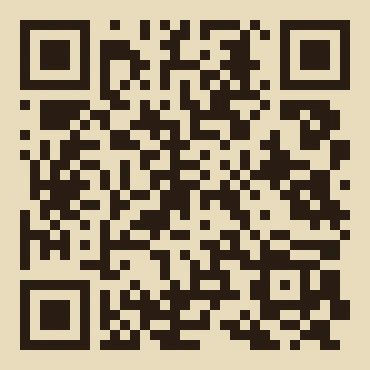
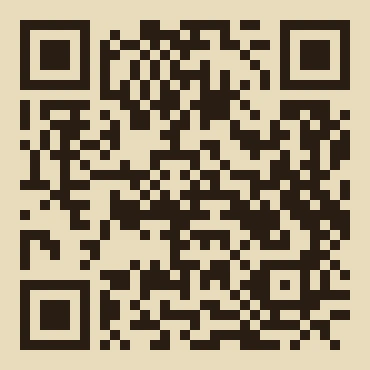
Nowy Świat: student notes page, QR to the site, video only on its own play
- Add nowy-swiat/dziennik/: mobile summary and sources, linked from the deck
- QR on the closing slide now points to lszoszk.github.io/talks/nowy-swiat/dziennik/
- Video starts only from its own play button (no autostart on first tap,
  which on iPhone played it in the background with sound)

diff --git a/nowy-swiat/dziennik/index.html b/nowy-swiat/dziennik/index.html
@@ -1,0 +1,296 @@
+<!doctype html>
+<html lang="pl">
+<head>
+<meta charset="utf-8">
+<meta name="viewport" content="width=device-width,initial-scale=1">
+<meta name="description" content="Podsumowanie i źródła wykładu „Nowy Świat” (WPiA UAM, 2 października 2026).">
+<title>Dziennik podróżnika</title>
+<link rel="preconnect" href="https://fonts.googleapis.com">
+<link rel="preconnect" href="https://fonts.gstatic.com" crossorigin>
+<link href="https://fonts.googleapis.com/css2?family=IBM+Plex+Mono:ital,wght@0,400;0,500;0,600;0,700;1,400&family=Press+Start+2P&display=swap" rel="stylesheet">
+<style>
+/* Jednolita ciemna identyfikacja, celowo: strona-towarzysz wykładu "Nowy Świat", ta sama paleta i pixelowy krój co w decku na ścianę. */
+:root{
+  color-scheme:dark;
+  --ink:#1b1622;--paper:#efe6d2;--parch:#ded0b2;--line:#4d4059;
+  --accent:#d67653;--gold:#e0b950;--muted:#ada290;--dim:#b4a6c4;
+  --bg:#141019;--panel:#1e1826;--chrome:#241d2e;
+  --mono:'IBM Plex Mono',ui-monospace,Menlo,Consolas,monospace;
+  --pixel:'Press Start 2P',var(--mono);
+}
+*{box-sizing:border-box}
+html{scroll-behavior:smooth}
+body{margin:0;padding-block:32px 64px;background:var(--bg);color:var(--parch);font-family:var(--mono);font-size:16px;line-height:1.6}
+.wrap{max-width:680px;margin:0 auto;padding-inline:20px}
+img{max-width:100%;display:block}
+a{color:var(--gold)}
+h1,h2{color:var(--paper);text-wrap:balance}
+.gld{color:var(--gold)}
+b,strong{color:var(--paper);font-weight:600}
+section{scroll-margin-top:16px;padding-block:38px;border-top:1px solid var(--line)}
+section:first-of-type{border-top:0}
+.kicker{font-family:var(--pixel);font-size:.62rem;line-height:1.9;letter-spacing:.04em;color:var(--gold);margin:0 0 14px}
+h2{font-size:1.5rem;line-height:1.3;margin:0 0 16px;letter-spacing:-.01em}
+p{margin:0 0 14px}
+.big{font-size:1.1rem;color:var(--paper)}
+.muted{color:var(--muted);font-size:.85rem}
+.fig-note{color:var(--muted);font-size:.82rem;margin-top:-4px}
+.src-line{color:var(--muted);font-size:.78rem;margin:8px 0 0}
+.quote{border-left:4px solid var(--gold);padding:2px 0 2px 16px;color:var(--paper);font-size:1.02rem;font-style:italic}
+.quote .qsrc{display:block;margin-top:6px;color:var(--muted);font-size:.78rem;font-style:normal}
+.link-btn{display:inline-block;font-family:var(--pixel);font-size:.68rem;letter-spacing:.03em;color:var(--ink);background:var(--gold);border:2px solid var(--ink);box-shadow:4px 4px 0 #00000055;padding:10px 14px;text-decoration:none}
+.link-btn:hover{background:var(--paper)}
+
+/* naglowek */
+.hero{padding-top:6px}
+.hero-sprite{width:44px;height:66px;margin:0 0 18px;background:url(../assets/bohater_wiedzmin_bieg.webp) 0 0/264px 66px no-repeat;animation:walk .55s steps(6) infinite;image-rendering:pixelated}
+@keyframes walk{to{background-position:-264px 0}}
+.hero h1{font-family:var(--pixel);font-size:clamp(1.9rem,9vw,2.6rem);line-height:1.35;letter-spacing:-.01em;text-shadow:3px 3px #000;margin:0 0 12px}
+.hero .subtitle{font-size:1.05rem;color:var(--paper);margin-bottom:6px}
+.hero .byline{color:var(--muted);font-size:.85rem;margin-bottom:22px}
+.hero .intro{font-size:.97rem}
+
+/* spis tresci */
+.toc{display:flex;flex-wrap:wrap;gap:8px;padding:20px 0 6px;list-style:none;margin:0}
+.toc a{display:block;font-size:.78rem;color:var(--parch);background:var(--panel);border:1px solid var(--line);padding:7px 11px;text-decoration:none}
+.toc a:hover,.toc a:focus-visible{border-color:var(--gold);color:var(--gold)}
+
+/* siatka 2 kol. od tabletu */
+.grid-2{display:grid;grid-template-columns:1fr;gap:16px;margin-bottom:16px}
+@media(min-width:560px){.grid-2{grid-template-columns:1fr 1fr}}
+
+/* pary granicy, karty statystyk */
+.pair,.stat-card{background:var(--panel);border:2px solid var(--line);box-shadow:5px 5px 0 #00000055;padding:16px 18px}
+.pair-n{font-family:var(--pixel);font-size:.6rem;letter-spacing:.03em;color:var(--gold);margin:0 0 10px}
+.pair-stat{font-size:1.15rem;color:var(--paper);margin:0 0 8px;font-variant-numeric:tabular-nums}
+.pair-stat span{color:var(--muted);font-size:.72rem;font-weight:400;margin:0 3px}
+.pair p,.stat-card p{font-size:.9rem}
+.stat-card .big{font-size:1.7rem;font-variant-numeric:tabular-nums;margin-bottom:6px}
+.stat-card.wide{max-width:none}
+.lab{font-family:var(--pixel);font-size:.6rem;letter-spacing:.03em;color:var(--gold);margin:0 0 10px}
+
+/* figury / zdjecia */
+figure{margin:0 0 16px}
+figure img{border:2px solid var(--line)}
+figcaption{font-size:.78rem;color:var(--muted);margin-top:8px}
+.task{font-size:.95rem;color:var(--paper);border-left:4px solid var(--line);padding-left:14px}
+
+/* pasek czasu pracy */
+.bars{margin-bottom:18px}
+.bar-row{margin-bottom:12px}
+.bar-row .bl{display:block;font-size:.85rem;color:var(--parch);margin-bottom:5px}
+.bar-track{display:flex;align-items:center;gap:10px}
+.bar-fill-wrap{flex:1;height:18px;background:#00000040}
+.bar-fill{height:100%;background:var(--accent)}
+.bar-row.grow .bar-fill{background:var(--gold)}
+.bar-row .bv{font-variant-numeric:tabular-nums;font-size:.8rem;color:var(--paper);min-width:44px;text-align:right}
+.bars-legend{display:flex;gap:16px;font-size:.75rem;color:var(--muted);margin:-4px 0 16px}
+.bars-legend span{display:inline-flex;align-items:center;gap:6px}
+.bars-legend i{width:10px;height:10px;display:inline-block}
+.bars-legend .gold-sw{background:var(--gold)}
+.bars-legend .acc-sw{background:var(--accent)}
+
+/* oś czasu przygotowania */
+.tl-row{display:flex;align-items:center;gap:10px;margin-bottom:8px}
+.tl-l{font-family:var(--pixel);font-size:.58rem;color:var(--muted);width:52px;flex:none}
+.tl-bar{flex:1;display:flex;height:26px;overflow:hidden;border:1px solid var(--ink)}
+.tl-bar .seg{height:100%}
+.seg.dec{background:var(--accent)}
+.seg.prep{background:var(--line)}
+.seg.eval{background:var(--gold)}
+.tl-legend{display:flex;flex-wrap:wrap;gap:14px;font-size:.75rem;color:var(--muted);margin:10px 0 14px}
+.tl-legend span{display:inline-flex;align-items:center;gap:6px}
+.tl-legend i{width:10px;height:10px;display:inline-block}
+
+/* zrodla */
+.src-list{display:flex;flex-direction:column;gap:16px}
+.src-item{border-top:1px solid var(--line);padding-top:14px}
+.src-item a{font-size:.92rem;color:var(--parch);text-decoration:none}
+.src-item a:hover{color:var(--gold)}
+.src-item p{font-size:.8rem;color:var(--muted);margin:6px 0 0}
+
+.farewell-section p{color:var(--paper)}
+footer{padding-top:30px;color:var(--muted);font-size:.8rem}
+footer p{margin:0 0 4px}
+</style>
+</head>
+<body>
+
+<div class="wrap">
+
+<header class="hero">
+<div class="hero-sprite" aria-hidden="true"></div>
+<p class="kicker">Wykład otwierający</p>
+<h1>Nowy <span class="gld">Świat</span></h1>
+<p class="subtitle">Po co studiować prawo, skoro AI zna przepisy?</p>
+<p class="byline">Łukasz Szoszkiewicz — Wydział Prawa i Administracji UAM</p>
+<p class="intro">Wykład był mapą: sąd, gildia prawników, kuźnia, pracownia alchemika, arena i port. Tu jest to, co po drodze zebraliście — fakty, liczby i źródła, w tej samej kolejności. Wracajcie, kiedy zechcecie.</p>
+<p><a class="link-btn" href="https://lszoszk.github.io/talks/nowy-swiat/" target="_blank" rel="noopener">pełna prezentacja z mapą ↗</a></p>
+<p class="fig-note">Prezentację najlepiej otworzyć na komputerze: strzałki i spacja przełączają slajdy, E włącza chodzenie po mapie.</p>
+</header>
+
+<nav class="toc" aria-label="Spis treści">
+<a href="#granica">Granica</a><a href="#sady">Sądy</a><a href="#obraz">Prawnik w pracy</a><a href="#czas">Czas pracy</a><a href="#cel">Cel i zadania</a><a href="#kuznia">Kuźnia</a><a href="#pracownia">Pracownia</a><a href="#rzecznicy">Rzecznicy patentowi</a><a href="#pieczec">Pieczęć</a><a href="#zrodla">Źródła</a>
+</nav>
+
+<section id="granica">
+<p class="kicker">Mapa · postrzępiona granica</p>
+<h2>Co leży w granicy, <span class="gld">a co poza nią?</span></h2>
+<p>Możliwości AI są nierówne: świetne w jednym zadaniu, zaskakująco słabe w sąsiednim, które wygląda na równie trudne. Badacze nazwali to <b>postrzępioną granicą</b> (ang. <i>jagged technological frontier</i>) — z góry jej nie widać, odkrywa się ją, próbując.</p>
+<div class="pairs">
+<article class="pair" style="margin-bottom:14px">
+<p class="pair-n">Para 1 · Polska</p>
+<p class="pair-stat">98,6% <span>trafień, ale</span> 37 / 30 / 8 <span>na 100</span></p>
+<p>Kontrola formalna odwołań do Krajowej Izby Odwoławczej: GPT-4.1 trafił w 98,6% na zbiorze testowym autorów. Pisemny egzamin kwalifikacyjny do KIO oceniła prawdziwa komisja: GPT-4.1 — 37 pkt, Claude 4 Sonnet — 30, Bielik — 8 (próg zdawalności: 50). Za pytania o same przepisy każdy model dostał 0.</p>
+<p class="src-line">Karp i in., <i>Artificial Intelligence and Law</i> (2026) · modele z 2025 r.</p>
+</article>
+<article class="pair" style="margin-bottom:14px">
+<p class="pair-n">Para 2 · USA</p>
+<p class="pair-stat">93,5–100% <span>vs</span> 46–83%</p>
+<p>Agenci AI z dostępem do bazy orzeczeń wykrywają zmyśloną sygnaturę niemal zawsze, ale prawdziwy wyrok z przekręconą treścią — dużo rzadziej (najlepiej: GPT-5). To para leżąca najbliżej granicy.</p>
+<p class="src-line">Liu, Stammbach, Henderson, preprint (2026)</p>
+</article>
+<article class="pair">
+<p class="pair-n">Para 3 · Polska</p>
+<p class="pair-stat">77,2% <span>elementów, ale</span> 7 wyroków</p>
+<p>Streszczenie dokumentu przez CoCounsel: 77,2% wymaganych elementów. Z drugiej strony — NSA, I OSK 590/26: pełnomocnik powołał 7 wyroków; części sygnatur nie ma w rejestrze, pozostałe mają inne daty i dotyczą czegoś innego.</p>
+<p class="src-line">Vals AI, VLAIR (2025) · NSA, I OSK 590/26 (31.08.2026)</p>
+</article>
+</div>
+</section>
+
+<section id="sady">
+<p class="kicker">Sąd · już nie tylko protokołowanie</p>
+<h2>Pakistan testuje. <span class="gld">Brazylia wdraża.</span></h2>
+<div class="grid-2">
+<div class="stat-card"><p class="big">+6,3%</p><p>więcej rozstrzygniętych spraw, gdy sędziowie dostali AI z dopasowanym szkoleniem — eksperyment z losowaniem: 1 559 sędziów, czyli ok. połowa sędziów pierwszej instancji w kraju.</p><p class="src-line">Mehmood, Goessmann, Ash, CEPR DP21783 (2026)</p></div>
+<div class="stat-card"><p class="big">44 min → sekundy</p><p>tyle trwa ocena dopuszczalności skargi: u człowieka i w systemie VICTOR. Sąd Najwyższy (STF) ma już cztery systemy AI: VICTOR, RAFA 2030, VitorIA i MARIA.</p><p class="src-line">Specjalna Sprawozdawczyni ONZ, A/80/169 (2025)</p></div>
+</div>
+<p>Raport ONZ (lipiec 2025) wymienia 25 państw; w 19 z nich opisuje konkretne narzędzia, wdrożenia lub pilotaże AI w sądach.</p>
+</section>
+
+<section id="obraz">
+<p class="kicker">Gildia prawników · jak AI widzi prawnika</p>
+<h2>„Narysuj mi prawnika <span class="gld">w pracy”</span></h2>
+<p>Dwa modele, ten sam obraz: biurko, dokument, pióro. Tak statystycznie wygląda „prawnik w pracy” w danych, na których się uczą.</p>
+<div class="ai-pics grid-2">
+<figure><img src="../assets/ai_prawnik_openai.jpg" alt="Obraz wygenerowany przez model OpenAI w Codexie: mężczyzna w garniturze przy biurku podpisuje dokumenty, za nim półki z książkami i waga"><figcaption>OpenAI · Codex</figcaption></figure>
+<figure><img src="../assets/ai_prawnik_gemini.jpg" alt="Obraz wygenerowany przez Gemini: mężczyzna w garniturze przy biurku pisze na dokumentach, za oknem Warszawa z Pałacem Kultury"><figcaption>Google · Gemini</figcaption></figure>
+</div>
+<p class="fig-note">Obrazy wygenerowane 23 września 2026 r.</p>
+</section>
+
+<section id="czas">
+<p class="kicker">Gildia prawników · czas pracy, Anglia i Walia</p>
+<h2>Na co przeznacza czas <span class="gld">prawnik w pracy?</span></h2>
+<div class="bars" id="barsChart">
+<div class="bar-row"><span class="bl">Kontakt z klientem</span><div class="bar-track"><div class="bar-fill-wrap"><div class="bar-fill" style="width:22.8%"></div></div><span class="bv">22,8%</span></div></div>
+<div class="bar-row"><span class="bl">Administracja</span><div class="bar-track"><div class="bar-fill-wrap"><div class="bar-fill" style="width:15.7%"></div></div><span class="bv">15,7%</span></div></div>
+<div class="bar-row"><span class="bl">„Martwy czas” między zadaniami</span><div class="bar-track"><div class="bar-fill-wrap"><div class="bar-fill" style="width:15%"></div></div><span class="bv">15,0%</span></div></div>
+<div class="bar-row grow"><span class="bl">Redagowanie dokumentów</span><div class="bar-track"><div class="bar-fill-wrap"><div class="bar-fill" style="width:14.5%"></div></div><span class="bv">14,5%</span></div></div>
+<div class="bar-row"><span class="bl">Czytanie i ocena dokumentów</span><div class="bar-track"><div class="bar-fill-wrap"><div class="bar-fill" style="width:12.6%"></div></div><span class="bv">12,6%</span></div></div>
+<div class="bar-row"><span class="bl">Nadzór i rozmowy w zespole</span><div class="bar-track"><div class="bar-fill-wrap"><div class="bar-fill" style="width:8.4%"></div></div><span class="bv">8,4%</span></div></div>
+<div class="bar-row"><span class="bl">Pozostałe</span><div class="bar-track"><div class="bar-fill-wrap"><div class="bar-fill" style="width:10.9%"></div></div><span class="bv">10,9%</span></div></div>
+</div>
+<p class="bars-legend"><span><i class="gold-sw"></i>to AI przejmie w dużej części — ale nie w całości</span></p>
+<p class="quote">„W 2017 r. badacze pisali, że pisanie prawnicze «bardzo trudno zautomatyzować». Kilka lat później to pierwsza rzecz, którą robi czatbot.”</p>
+<p>Duńskie badanie (Humlum i Vestergaard, 2025) objęło ok. 25 tys. pracowników w 11 zawodach, w tym biurowych i prawników. Średnio oszczędzali <b>2,8%</b> czasu pracy, a <b>80%</b> z nich przeznaczało zaoszczędzony czas na inne zadania. Na jakie dokładnie w pracy prawnika — tego nikt jeszcze nie zmierzył. Moje przewidywanie: więcej pracy poziom wyżej. Tak jak programista, któremu model pisze kod, coraz częściej decyduje, co ma powstać, zleca i sprawdza, tak prawnik częściej poprowadzi całą sprawę, a rzadziej sam napisze pierwszą wersję.</p>
+<p class="fig-note">Dane 2013 r., sześć kancelarii w Anglii i Walii (Legal Education and Training Review) — nie o Polsce ani o dzisiejszej praktyce.</p>
+</section>
+
+<section id="cel">
+<p class="kicker">Gildia prawników · cel pracy i zadania</p>
+<h2>Cel pracy <span class="gld">i zadania</span></h2>
+<figure><img src="../assets/huang_poster.jpg" alt="Jensen Huang podczas rozmowy w podkaście No Priors"><figcaption>Jensen Huang (NVIDIA), No Priors, 8.01.2026 — <a href="https://www.youtube.com/watch?v=k-xtmISBCNE&t=543s" target="_blank" rel="noopener">pełny fragment (od 9:03) ↗</a></figcaption></figure>
+<p>Huang rozróżnia <b>zadanie</b> — to, co robi się krok po kroku — i <b>cel</b> — po co się to robi. Na wykładzie padły dwa pytania; warto wrócić do własnych odpowiedzi:</p>
+<p class="task">1. Co jest odpowiednikiem „pisania kodu” w pracy prawnika?<br>2. A co jest celem pracy prawnika?</p>
+<p class="quote">Znać przepisy — to już potrafi model. Rozumieć, po co są i czemu mają służyć w konkretnej sprawie — to Wasza robota.<span class="qsrc">„Understanding is the new knowing” — krążące hasło bez jednego ustalonego autora, ale trafne podsumowanie.</span></p>
+</section>
+
+<section id="kuznia">
+<p class="kicker">Kuźnia · jedna osoba, cały warsztat</p>
+<h2>Kiedyś: informatyk i prawnik. <span class="gld">Dziś: pierwsza wersja w jeden wieczór.</span></h2>
+<figure><img src="../assets/hrc_zrodlo_47_23.webp" alt="Fragment rezolucji Rady Praw Człowieka ONZ 47/23 z 13 lipca 2021 r.: tytuł i wynik głosowania imiennego, 44 za, 0 przeciw, 3 wstrzymujące się"><figcaption>Rada Praw Człowieka ONZ, rezolucja 47/23 (2021) — surowiec, z którego korzysta HRC Voting</figcaption></figure>
+<p>Narzędzie do przeglądania głosowań imiennych w Radzie Praw Człowieka ONZ jeszcze niedawno wymagałoby zespołu: kogoś, kto zna dane i prawo, i kogoś, kto programuje. Pierwsza działająca wersja powstała w jeden wieczór, z modelem AI — potem dziesięć tygodni i ponad pięćdziesiąt poprawek.</p>
+<figure><img src="../assets/hrc_voting_blocs_mapa.webp" alt="Mapa zgodności głosowań państw z HRC Voting: państwa ułożone według tego, jak często głosują jak USA i jak Chiny"><figcaption>kto z kim głosuje — bliżej Chin w lewym górnym rogu, bliżej USA w prawym dolnym</figcaption></figure>
+<p class="fig-note">6 346 tekstów · 2 011 głosowań imiennych · ok. 129 tys. głosów państw, 1947–2026 (stan z 17.09.2026)</p>
+<p><a class="link-btn" href="https://lszoszk.github.io/hrc-voting/" target="_blank" rel="noopener">otwórz HRC Voting ↗</a></p>
+</section>
+
+<section id="pracownia">
+<p class="kicker">Pracownia alchemika</p>
+<h2>Przygotowanie tanieje. <span class="gld">Decyzja i ocena zostają przy Was.</span></h2>
+<div class="tl-row"><span class="tl-l">DOTĄD</span><div class="tl-bar"><span class="seg dec" style="flex:3"></span><span class="seg prep" style="flex:14"></span><span class="seg eval" style="flex:3"></span></div></div>
+<div class="tl-row"><span class="tl-l">Z AI</span><div class="tl-bar"><span class="seg dec" style="flex:7"></span><span class="seg prep" style="flex:3"></span><span class="seg eval" style="flex:7"></span></div></div>
+<p class="tl-legend"><span><i style="background:var(--accent)"></i>decyzja — cel, kontekst, pytanie</span><span><i style="background:var(--line)"></i>przygotowanie — szukanie, czytanie, pisanie</span><span><i style="background:var(--gold)"></i>ocena — czy można na tym działać</span></p>
+<p class="fig-note">Schemat, nie pomiar czasu pracy — pokazuje, gdzie przesuwa się wysiłek, nie ile realnie trwa.</p>
+<p><b>Paradoks Jevonsa:</b> gdy rośnie wydajność i spada koszt jednej usługi, zwykle rośnie popyt. Przy usługach prawnych oznacza to, że na pomoc prawnika będzie stać więcej osób. To teza, nie pomiar.</p>
+<p class="big">Pełnomocnik powołał w zażaleniu trzy postanowienia NSA. Sygnatury były prawdziwe.</p>
+<p class="quote">„…żadne nie odzwierciedla realnego stanowiska Naczelnego Sądu Administracyjnego”<span class="qsrc">NSA, postanowienie z 23.06.2026, I FZ 104/26</span></p>
+<p>Mikstura miała dobry kolor: sygnatury wyglądały jak prawdziwe. Żeby ocenić wynik, trzeba wiedzieć, jak powinien wyglądać. Łowca potworów, zanim ruszy na polowanie, czyta bestiariusz; prawnik, zanim zaufa modelowi, zna przepisy.</p>
+</section>
+
+<section id="rzecznicy">
+<p class="kicker">Arena · eksperyment 2026</p>
+<h2>AI pomaga każdemu. <span class="gld">Uczy tych, którzy mają podstawy.</span></h2>
+<p class="task">133 rzeczników patentowych z USA, 3 miesiące z asystentem AI lub bez niego, na koniec test bez AI.</p>
+<div class="grid-2">
+<div class="stat-card"><p class="lab">Pisanie z AI</p><p class="big" style="font-size:1.1rem">Lepsze zgłoszenia. Największy zysk u juniorów.</p></div>
+<div class="stat-card"><p class="lab">Na koniec, bez AI: ocena projektu</p><p class="big" style="font-size:1.1rem">Seniorzy z grupy AI lepsi od seniorów bez AI. Juniorzy — średnio bez zysku.</p></div>
+</div>
+<p>Seniorzy z grupy AI częściej przebudowywali całe fragmenty i usuwali ryzyka prawne. Juniorzy poprawiali głównie styl, a problemy — tylko opisywali, zamiast je naprawić.</p>
+<p class="quote">Na studiach — bez skrótów. W pracy — z AI.<span class="qsrc">Tylko ćwicząc sami, nauczycie się, na co zwracać uwagę, co sprawdzać i co można oddać narzędziu.</span></p>
+<p class="src-line">Autor i in., NBER WP 35720 (IX 2026), working paper</p>
+</section>
+
+<section id="pieczec">
+<p class="kicker">Arena · pieczęć</p>
+<h2>Model może napisać lepiej. <span class="gld">Podpisujesz się Ty.</span></h2>
+<div class="stat-card wide" style="margin-bottom:16px"><p class="lab">baza D. Charlotina · IX 2026</p><p class="big">ponad 2000</p><p>spraw ze zmyśleniami AI w sądach, 41 państw i terytoriów.</p></div>
+<p class="quote">„Korzystanie z narzędzi technologicznych nie zwalnia adwokata z osobistej odpowiedzialności […]”<span class="qsrc">Kodeks Etyki Adwokackiej, § 23e ust. 6 (od czerwca 2026)</span></p>
+<p class="big">Kiedy zaufać, a kiedy nie — <span class="gld">tego uczy tylko własna praca.</span></p>
+<p><a class="link-btn" href="https://www.damiencharlotin.com/hallucinations/" target="_blank" rel="noopener">baza D. Charlotina ↗</a></p>
+</section>
+
+<section id="port" class="farewell-section">
+<p class="kicker">Port</p>
+<h2>Wypływacie <span class="gld">na nieznane wody.</span></h2>
+<p>Zabieracie wszystko, co zdobyliście po drodze. Będziemy Wam pomagać przygotować się na nowe wyzwania.<br>Powodzenia.</p>
+</section>
+
+<section id="zrodla">
+<p class="kicker">Po wykładzie</p>
+<h2>Źródła</h2>
+<div class="src-list">
+<div class="src-item"><a href="https://doi.org/10.1287/orsc.2025.21838" target="_blank" rel="noopener">Dell'Acqua i in., Navigating the Jagged Technological Frontier, Organization Science (2026)</a><p>758 konsultantów BCG, losowy przydział. W granicy: +12,2% zadań, 25,1% szybciej. Poza granicą: 84,5% poprawnych bez AI wobec 60% i 70,6% z AI.</p></div>
+<div class="src-item"><a href="https://letr.org.uk/the-report/chapter-2/what-is-valued-and-required-by-the-legal-services-sector/index.html" target="_blank" rel="noopener">Legal Education and Training Review (2013), rozdz. 2, tab. 2.6</a><p>Rozkład czasu solicitorów w sześciu kancelariach w Anglii i Walii, 2012 r., z porównaniem do 1991 r.</p></div>
+<div class="src-item"><a href="https://www.iadclaw.org/assets/1/7/10.1-_Remus_Levy.pdf" target="_blank" rel="noopener">Remus i Levy, Can Robots Be Lawyers?, 30 Geo. J. Legal Ethics 501 (2017)</a><p>Odsetek zafakturowanych godzin w dużych kancelariach w USA, 2012–2015. Cytat: „legal writing is very difficult to automate”.</p></div>
+<div class="src-item"><a href="https://www.youtube.com/watch?v=k-xtmISBCNE&t=543s" target="_blank" rel="noopener">Jensen Huang, No Priors, 8.01.2026 (od 9:03)</a><p>Fragment 57 s. Wypowiedź ilustruje sposób myślenia o celu i zadaniu, nie jest dowodem o zatrudnieniu.</p></div>
+<div class="src-item"><a href="https://cepr.org/publications/dp21783" target="_blank" rel="noopener">Mehmood, Goessmann i Ash, Courts of Tomorrow, CEPR DP21783 (2026), working paper</a><p>Eksperyment z losowaniem w sądach Pakistanu: 1 559 sędziów, 118 sądów, narzędzie JudgeGPT.</p></div>
+<div class="src-item"><a href="https://documents.un.org/api/symbol/access?s=A/80/169&l=en&t=pdf" target="_blank" rel="noopener">Specjalna Sprawozdawczyni ONZ ds. niezależności sędziów i prawników, A/80/169 (2025)</a><p>Artificial intelligence in judicial systems: promises and pitfalls, 16 lipca 2025. 25 państw wymienionych; w 19 konkretne narzędzia, pilotaże lub plany.</p></div>
+<div class="src-item"><a href="https://noticias.stf.jus.br/postsnoticias/stf-amplia-uso-de-inteligencia-artificial-em-apoio-a-atividade-jurisdicional/" target="_blank" rel="noopener">Supremo Tribunal Federal: „STF amplia uso de inteligência artificial em apoio à atividade jurisdicional”</a><p>Platforma MARIA i oś czasu narzędzi AI w STF (VICTOR 2018, RAFA 2030 2022, VitorIA 2023).</p></div>
+<div class="src-item"><a href="https://www.nber.org/papers/w35720" target="_blank" rel="noopener">Autor i in., Does AI Assistance Enhance or Erode Expertise?, NBER WP 35720 (IX 2026), working paper</a><p>133 rzeczników patentowych z 11 kancelarii w USA. Test końcowy bez AI: poprawki do projektu zgłoszenia napisanego przez AI.</p></div>
+<div class="src-item"><a href="https://www.vals.ai/industry-reports/vlair-2-27-25" target="_blank" rel="noopener">Vals AI, Vals Legal AI Report (VLAIR) (2025)</a><p>Porównanie narzędzi AI z grupą prawników: pytania o treść umowy, streszczenia dokumentów (prawo USA).</p></div>
+<div class="src-item"><a href="https://www.nber.org/papers/w33777" target="_blank" rel="noopener">Humlum i Vestergaard, Large Language Models, Small Labor Market Effects, NBER WP 33777 (2025)</a><p>Dania: dwie fale ankiet (2023, 2024), po ok. 25 tys. pracowników w 11 zawodach. Średnia oszczędność 2,8% czasu pracy; 80% korzystających przeznacza zaoszczędzony czas na inne zadania.</p></div>
+<div class="src-item"><a href="https://arxiv.org/abs/2511.04205" target="_blank" rel="noopener">Karp i in., Artificial Intelligence and Law (2026)</a><p>Egzamin kwalifikacyjny do Krajowej Izby Odwoławczej: kontrola formalna odwołań (GPT-4.1: 98,6%) i pisemny kazus (37/30/8 pkt na 100, próg 50). Modele z 2025 r.</p></div>
+<div class="src-item"><a href="https://arxiv.org/abs/2606.21155" target="_blank" rel="noopener">Liu, Stammbach, Henderson, preprint (2026)</a><p>Wykrywanie zmyślonych i przekręconych orzeczeń przez agentów AI z dostępem do bazy CourtListener (prawo USA).</p></div>
+<div class="src-item"><a href="https://www.prawo.pl/prawnicy-sady/nsa-radca-prawny-przywolal-orzeczenia-zmyslone-przez-ai,1553132.html" target="_blank" rel="noopener">NSA, I OSK 590/26 (31.08.2026)</a><p>Pełnomocnik powołał 7 wyroków NSA: części sygnatur nie ma, pozostałe mają inne daty i dotyczą czegoś innego.</p></div>
+<div class="src-item"><a href="https://orzeczenia.nsa.gov.pl/doc/7696DAE25D" target="_blank" rel="noopener">NSA, postanowienie z 23.06.2026, I FZ 104/26</a><p>Trzy powołane postanowienia o prawdziwych sygnaturach; „żadne nie odzwierciedla realnego stanowiska” NSA.</p></div>
+<div class="src-item"><a href="https://storage.courtlistener.com/recap/gov.uscourts.nysd.575368/gov.uscourts.nysd.575368.54.0.pdf" target="_blank" rel="noopener">Mata v. Avianca, No. 22-cv-1461 (S.D.N.Y. 22.06.2023), Opinion and Order on Sanctions</a><p>Jedna kara 5000 USD solidarnie na dwóch prawników i kancelarię; podstawą był podpis bez sprawdzenia, nie samo użycie AI.</p></div>
+<div class="src-item"><a href="https://www.adwokatura.pl/admin/wgrane_pliki/file-zal-do-uchwaly-prezydium-nra-nr-1742026kodeksetykiadwokackiejtekst-jednolity-44572.pdf" target="_blank" rel="noopener">Kodeks Etyki Adwokackiej, tekst jednolity (23.06.2026), § 23e</a><p>Uchwała NRA nr 41/2026 z 12.06.2026: korzystanie z narzędzi AI, obowiązek oceny i weryfikacji, osobista odpowiedzialność adwokata.</p></div>
+<div class="src-item"><a href="https://www.nber.org/papers/w33641" target="_blank" rel="noopener">Dell'Acqua i in., The Cybernetic Teammate, NBER WP 33641 (2025); Organization Science 37(4) (2026)</a><p>Eksperyment w Procter &amp; Gamble (V–VII 2024, 776 osób): osoba z AI porównywalna z parą bez AI.</p></div>
+<div class="src-item"><a href="https://documents.un.org/api/symbol/access?s=A/HRC/RES/47/23&l=en&t=pdf" target="_blank" rel="noopener">Rada Praw Człowieka ONZ, rezolucja 47/23 (13.07.2021)</a><p>New and emerging digital technologies and human rights. Przyjęta w głosowaniu imiennym: 44 za, 0 przeciw, 3 wstrzymujące się.</p></div>
+<div class="src-item"><a href="https://lszoszk.github.io/hrc-voting/" target="_blank" rel="noopener">HRC Voting — Ł. Szoszkiewicz (2026)</a><p>Głosowania w Komisji Praw Człowieka i Radzie Praw Człowieka ONZ: 6 346 tekstów, 2 011 głosowań imiennych, 129 441 głosów państw (stan z 17.09.2026).</p></div>
+<div class="src-item"><a href="https://nyulawreview.org/forum/2026/08/ai-legal-labor-and-the-jevons-paradox/" target="_blank" rel="noopener">Chang, AI, Legal Labor, and the Jevons Paradox, NYU Law Review Forum (4.08.2026)</a><p>Esej: tańsze usługi prawne mogą zwiększyć popyt na nie (paradoks Jevonsa), m.in. wśród osób, których dziś nie stać na prawnika.</p></div>
+<div class="src-item"><a href="https://www.damiencharlotin.com/hallucinations/" target="_blank" rel="noopener">Damien Charlotin, AI Hallucination Cases Database</a><p>Orzeczenia, w których sąd stwierdził oparcie się na treściach zmyślonych przez AI. Plik CSV z 23.09.2026: 2047 spraw z 41 państw i terytoriów (IV 2023 – IX 2026).</p></div>
+</div>
+</section>
+
+<footer>
+<p>Łukasz Szoszkiewicz — Wydział Prawa i Administracji UAM</p>
+<p>Materiały z wykładu „Nowy Świat”, wrzesień 2026.</p>
+</footer>
+
+</div>
+</body>
+</html>

diff --git a/nowy-swiat/index.html b/nowy-swiat/index.html
@@ -846,7 +846,7 @@ body:not([data-public="true"]) .time-slide:has(.dk.on) .bar.doc .bt::after{conte
 
 <section aria-label="Slajd 8: Cel pracy i zadania" class="slide" data-title="Cel pracy i zadania" data-min="3.5" data-appendix="false">
 <div class="kicker">Gildia prawników · mniej czasu na zadania, więcej na cel</div><h2>Cel pracy i zadania</h2>
-<div class="video-layout"><div class="vidwrap"><video data-clickplay controls playsinline preload="metadata" poster="assets/huang_poster.jpg" src="assets/huang_purpose_vs_task.mp4"></video><a class="video-fallback" href="assets/huang_purpose_vs_task.mp4" target="_blank" rel="noopener">otwórz klip osobno ↗</a><div class="vidcap">No Priors · 8 stycznia 2026 · 57 s</div></div><div class="video-text"><div class="lab">Dwa pytania do sali</div><p class="vq frag"><b>1</b><span>Co jest odpowiednikiem „pisania kodu” w pracy prawnika?</span></p><p class="vq frag"><b>2</b><span>A co jest <span class="gld">celem</span> pracy prawnika?<small>30 sekund z osobą obok · jedno zdanie</small></span></p></div></div>
+<div class="video-layout"><div class="vidwrap"><video controls playsinline preload="metadata" poster="assets/huang_poster.jpg" src="assets/huang_purpose_vs_task.mp4"></video><a class="video-fallback" href="assets/huang_purpose_vs_task.mp4" target="_blank" rel="noopener">otwórz klip osobno ↗</a><div class="vidcap">No Priors · 8 stycznia 2026 · 57 s</div></div><div class="video-text"><div class="lab">Dwa pytania do sali</div><p class="vq frag"><b>1</b><span>Co jest odpowiednikiem „pisania kodu” w pracy prawnika?</span></p><p class="vq frag"><b>2</b><span>A co jest <span class="gld">celem</span> pracy prawnika?<small>30 sekund z osobą obok · jedno zdanie</small></span></p></div></div>
 <footer class="src"><a href="https://www.youtube.com/watch?v=k-xtmISBCNE&amp;t=543s" target="_blank" rel="noopener">Jensen Huang, No Priors, 8.01.2026 (od 9:03)</a></footer>
 <span class="slide-number">08</span>
 </section>
@@ -1174,7 +1174,8 @@ function mapToggle(){if(!window.MAPA)return;walkMode=false;if(isMap(current)){if
 function toast(msg){let t=$('toast');if(!t){t=document.createElement('div');t.id='toast';$('stage').appendChild(t)}t.textContent=msg;t.classList.add('show');clearTimeout(t._h);t._h=setTimeout(()=>t.classList.remove('show'),5000)}
 function playVideo(v){const p=v.play();if(p)p.catch(()=>toast('Przeglądarka zablokowała start filmu. Kliknij film myszą albo naciśnij V.'))}
 let mediaPrimed=false;
-function primeMedia(){if(mediaPrimed||isPresenter)return;mediaPrimed=true;document.querySelectorAll('video[data-clickplay]').forEach(v=>{if(!v.paused||v.closest('.slide')===slides[current])return;const vol=v.volume;v.volume=0;const p=v.play();if(p)p.then(()=>{if(v.volume===0){v.pause();v.currentTime=0;v.volume=vol}}).catch(()=>{v.volume=vol})})}
+/* muted, nie volume=0: na iPhonie glosnosc ze skryptu jest ignorowana, a film gralby w tle */
+function primeMedia(){if(mediaPrimed||isPresenter)return;mediaPrimed=true;document.querySelectorAll('video[data-clickplay]').forEach(v=>{if(!v.paused||v.closest('.slide')===slides[current])return;const undo=()=>{v.pause();v.currentTime=0;v.muted=false};v.muted=true;const p=v.play();if(p)p.then(undo).catch(undo);else undo()})}
 document.addEventListener('keydown',primeMedia,true);document.addEventListener('pointerdown',primeMedia,true);
 function videoToggle(){const v=slides[current].querySelector('video');if(!v)return;if(v.paused){v.volume=1;playVideo(v)}else v.pause()}
 function timeUsed(){return elapsed+(running?(Date.now()-started)/1000:0)}
